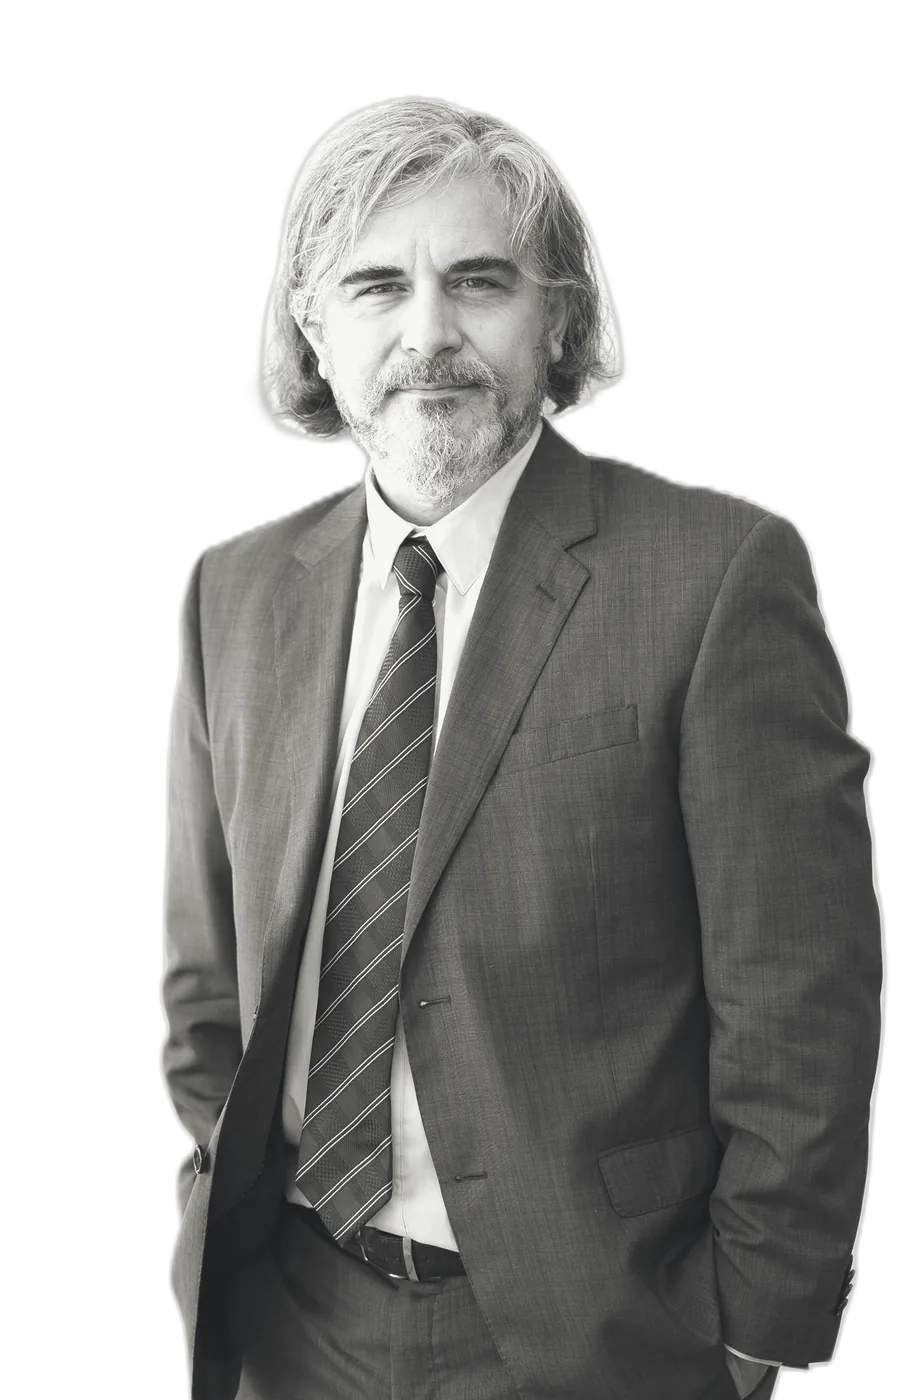
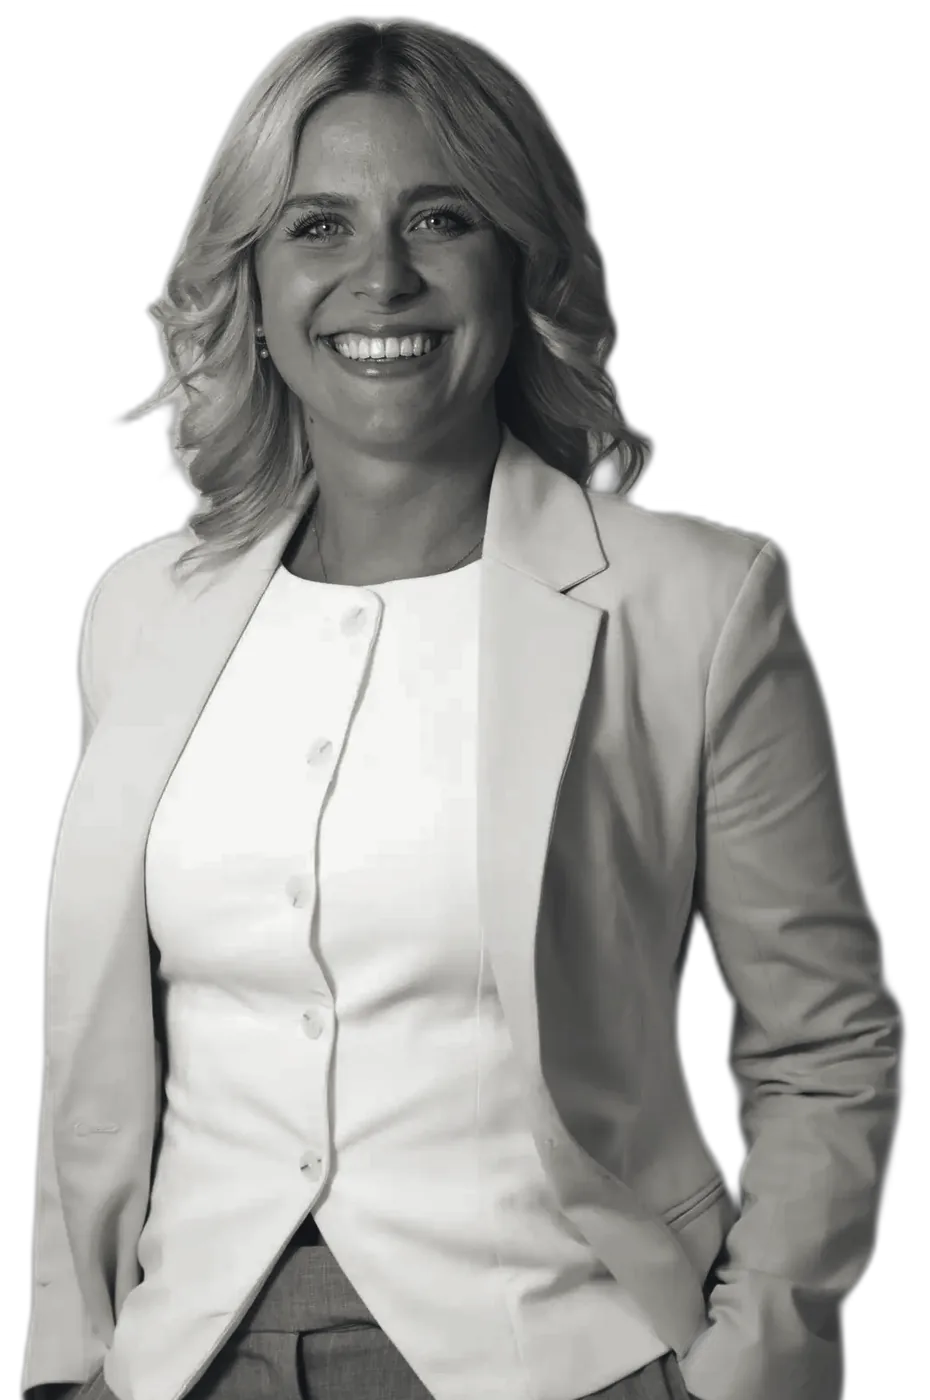
Hero-Bild ersetzt (Bild vom Auftraggeber), Hero-Layout angepasst
Claude-Session: https://claude.ai/code/session_01L8Mxpd15D1Kw4C99F42waA

diff --git a/app/page.tsx b/app/page.tsx
@@ -38,7 +38,7 @@ const diskretion = [
   "Unterlagen gehen nur mit ausdrücklicher Zustimmung weiter.",
 ];
 
-const heroAlt = "Stimmungsbild einer Führungspersönlichkeit im dunklen Anzug, Schwarz-Weiß";
+const heroAlt = "Stimmungsbild: lächelnde Frau im hellen Blazer, Schwarz-Weiß";
 
 export default function Home() {
   return (
@@ -54,11 +54,11 @@ export default function Home() {
 
         <div className="wrap relative z-10 xl:grid xl:min-h-hero xl:grid-cols-12">
           {/* Porträt: mobil gestapelt, ab xl unten bündig neben dem Textblock */}
-          <div className="relative mx-auto w-2/3 max-w-portrait pt-12 xl:absolute xl:bottom-0 xl:left-figure xl:mx-0 xl:h-5/6 xl:w-auto xl:max-w-none xl:-translate-x-1/2 xl:pt-0">
+          <div className="relative mx-auto w-2/3 max-w-portrait pt-12 xl:absolute xl:bottom-0 xl:left-figure xl:mx-0 xl:h-4/5 xl:w-auto xl:max-w-none xl:-translate-x-1/2 xl:pt-0">
             <Photo
               src="/images/hero-portrait.webp"
               alt={heroAlt}
-              width={922}
+              width={930}
               height={1400}
               sizes="(min-width: 1280px) 30vw, 66vw"
               priority

diff --git a/tailwind.config.ts b/tailwind.config.ts
@@ -89,7 +89,7 @@ const config: Config = {
     scale: { 100: "1", 102: "1.02" },
     transitionDuration: { DEFAULT: "200ms", accordion: "250ms", reveal: "400ms", zoom: "600ms" },
     transitionTimingFunction: { DEFAULT: "cubic-bezier(0, 0, 0.2, 1)" },
-    extend: { inset: { figure: "57%" }, width: { info: "15rem" } },
+    extend: { inset: { figure: "58%" }, width: { info: "15rem" } },
   },
   plugins: [],
 };

diff --git a/IMAGES.md b/IMAGES.md
@@ -1,15 +1,15 @@
 # IMAGES.md
 
-Alle Bilder liegen unter `public/images/` als WebP. Quelle für alle: Pexels (Pexels-Lizenz, kommerzielle Nutzung ohne Namensnennung erlaubt, Bilder dürfen bearbeitet werden). Die Fotos sind Pitch-Material und werden vor Livegang durch eigene Aufnahmen des Kunden ersetzt.
+Alle Bilder liegen unter `public/images/` als WebP. Quelle: Pexels (außer dem Hero-Bild) (Pexels-Lizenz, kommerzielle Nutzung ohne Namensnennung erlaubt, Bilder dürfen bearbeitet werden). Die Fotos sind Pitch-Material und werden vor Livegang durch eigene Aufnahmen des Kunden ersetzt.
 
 **Einheitliche Bearbeitung:** Schwarz-Weiß, abgebildet auf die Palette (Schwarz wird Tinte `#121417`, Weiß wird Papier `#F7F7F5`, Mittelton leicht warm). Zuschnitt auf das jeweilige Seitenverhältnis. Das Hero-Porträt ist freigestellt (u2net_human_seg), Alpha-Kanten leicht zurückgenommen.
 
 | Datei | Motiv | Quelle (Pexels-Foto-ID) | Einsatz |
 |---|---|---|---|
-| `hero-portrait.webp` | Mann im dunklen Anzug, freigestellt (Stimmungsbild, keine Person von Doctovip) | https://www.pexels.com/photo/10041269/ | Hero Startseite |
+| `hero-portrait.webp` | Frau im hellen Blazer, freigestellt (Stimmungsbild, vom Auftraggeber bereitgestellt) | Vom Auftraggeber bereitgestellt, Nutzungsrechte vor Livegang klären | Hero Startseite |
 | `arbeitsweise.webp` | Helle, geschwungene Treppe in weißem Raum | https://www.pexels.com/photo/5184791/ | Startseite Arbeitsweise, Für Ärzte |
 | `mvz.webp` | Heller Flur mit Sitzreihe am Fenster | https://www.pexels.com/photo/19921278/ | Startseite MVZ-Karte, Ansatz, Für Häuser |
 
-Hinweis: Die Person im Hero-Bild ist ein Stockfoto-Model ohne Bezug zu Doctovip. Der Alt-Text beschreibt nur die Stimmung. Vor Livegang durch eigene Aufnahmen ersetzen. Die Bilder aus Version 2 (Partnerporträts, Einblicke) sind gelöscht.
+Hinweis: Das Hero-Bild hat der Auftraggeber geliefert. Der Alt-Text beschreibt nur die Stimmung und nennt keine Person. Rechte und Einwilligung der abgebildeten Person vor Livegang klären. Die Bilder aus Version 2 (Partnerporträts, Einblicke) sind gelöscht.
 
 Regeln: keine Kittel, Stethoskope, Händeschüttel- oder Teamfotos, keine Overlays über Bildern, keine Logos. Fehlt ein Bild, zeigt `components/Photo.tsx` eine Graphit-Fläche mit Monogramm, nie eine leere `src`.

diff --git a/DESIGN.md b/DESIGN.md
@@ -18,7 +18,7 @@ Kompositionsvorlage: Framer-Template „MedDocX“ (Aufbau, Bildanteil, Sektions
 | `brass` Messing | `#7E6236` | Akzent auf hell: Links, feine Linien, Icons, Fokus, Nummern, zweite Hero-Zeile; Fläche nur bei der einen Fakten-Kachel |
 | `brass-light` Messing hell | `#B8A07A` | Nur auf Tinte: Linien, Links, Monogramm |
 
-Version 3: Die Hero-Wortmarke steht bei 6 % Deckkraft (Token `opacity-6`). Die Hero-Info-Karten sind höchstens 15 rem (`max-w-info`) breit, das Hero-Porträt sitzt bei `left-figure` (57 %), damit die Karten die Figur nicht überdecken. Titel der Anlässe-Zeilen: `xl` (1.5 rem), da 1.375 rem nicht in der Skala liegt. Die Desktop-Navigation beginnt ab `lg`, weil sie nur drei Links hat.
+Version 3: Die Hero-Wortmarke steht bei 6 % Deckkraft (Token `opacity-6`). Die Hero-Info-Karten sind höchstens 15 rem (`max-w-info`) breit, das Hero-Porträt sitzt bei `left-figure` (58 %, Höhe 80 %), damit die Karten die Figur nicht überdecken. Titel der Anlässe-Zeilen: `xl` (1.5 rem), da 1.375 rem nicht in der Skala liegt. Die Desktop-Navigation beginnt ab `lg`, weil sie nur drei Links hat.
 
 Auf Tinte: Text `paper`, Haarlinien `paper` mit 15 % Deckkraft, Sekundärtext `paper` mit 72 %.
 

diff --git a/KLAERUNG.md b/KLAERUNG.md
@@ -127,6 +127,6 @@ Briefing: „Darüber hinaus soll eine neue Marke (Doctovip) etabliert werden, d
 
 | Datei | Motiv | Quelle | Lizenz | Einsatz |
 |---|---|---|---|---|
-| hero-portrait.webp | Mann im dunklen Anzug, freigestellt, Schwarz-Weiß (Stimmungsbild) | https://www.pexels.com/photo/10041269/ | Pexels-Lizenz | Startseite, Hero |
+| hero-portrait.webp | Frau im hellen Blazer, freigestellt, Schwarz-Weiß (Stimmungsbild) | Vom Auftraggeber bereitgestellt | Nutzungsrechte vor Livegang klären | Startseite, Hero |
 | arbeitsweise.webp | Helle, geschwungene Treppe in weißem Raum, Schwarz-Weiß | https://www.pexels.com/photo/5184791/ | Pexels-Lizenz | Startseite, Arbeitsweise; Für Ärzte |
 | mvz.webp | Heller Flur mit Sitzreihe am Fenster, Schwarz-Weiß | https://www.pexels.com/photo/19921278/ | Pexels-Lizenz | Startseite, MVZ-Karte; Ansatz; Für Häuser |
